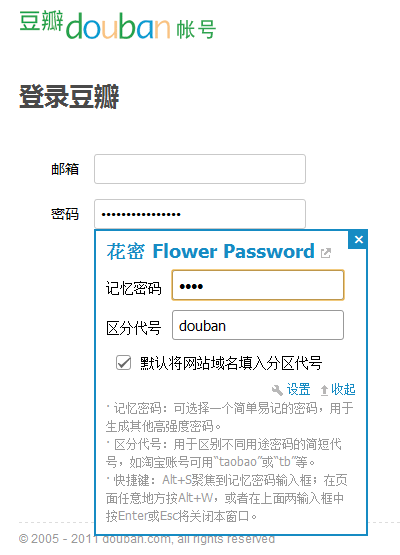
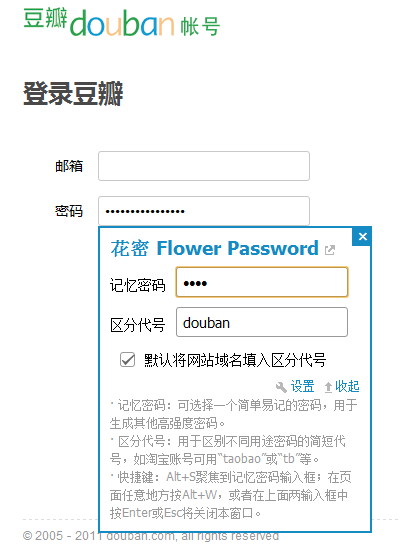
Update to version 1.0.4. Fix a typo.

diff --git a/src/js/huami.js b/src/js/huami.js
@@ -83,7 +83,7 @@ function lazyInject() {
             '<br>' +
             '<label for="flower-password-key">区分代号</label><input id="flower-password-key" name="flower-password-key" type="text" value="" maxlength="20" />' +
             '<br>' +
-            '<input id="flower-password-fill-key" name="flower-password-fill-key" type="checkbox" /><label for="flower-password-fill-key">默认将网站域名填入分区代号</label>' +
+            '<input id="flower-password-fill-key" name="flower-password-fill-key" type="checkbox" /><label for="flower-password-fill-key">默认将网站域名填入区分代号</label>' +
             '<span id="flower-password-toolbar"><a href="' + chrome.extension.getURL('options.html') + '" target="_blank"><img src="' + chrome.extension.getURL('img/options.png') + '" /> 设置</a><a id="flower-password-hint-control"><img src="' + chrome.extension.getURL('img/shrink.png') + '" /> 收起</a></span>' +
             '<p id="flower-password-hint">· 记忆密码：可选择一个简单易记的密码，用于生成其他高强度密码。<br>· 区分代号：用于区别不同用途密码的简短代号，如淘宝账号可用“taobao”或“tb”等。<br>· 快捷键：Alt+S聚焦到记忆密码输入框；在页面任意地方按Alt+W，或者在上面两输入框中按Enter或Esc将关闭本窗口。</p>' +
         '</div>'

diff --git a/src/options.html b/src/options.html
@@ -15,7 +15,7 @@
 	<p>
 		<input id="flower-password-default-enabled" name="flower-password-default-enabled" type="checkbox" /><label for="flower-password-default-enabled">默认在所有网站启用花密</label>
 		<br>
-		<input id="flower-password-fill-key" name="flower-password-fill-key" type="checkbox" /><label for="flower-password-fill-key">默认将网站域名填入分区代号</label>
+		<input id="flower-password-fill-key" name="flower-password-fill-key" type="checkbox" /><label for="flower-password-fill-key">默认将网站域名填入区分代号</label>
 	</p>
 	<p>单击地址栏右边的花密图标，可针对该网站选择启用或停用花密插件，如下图所示。</p>
 	<p class="screenshot"><img src="img/switch-screenshot.png" /></p>
